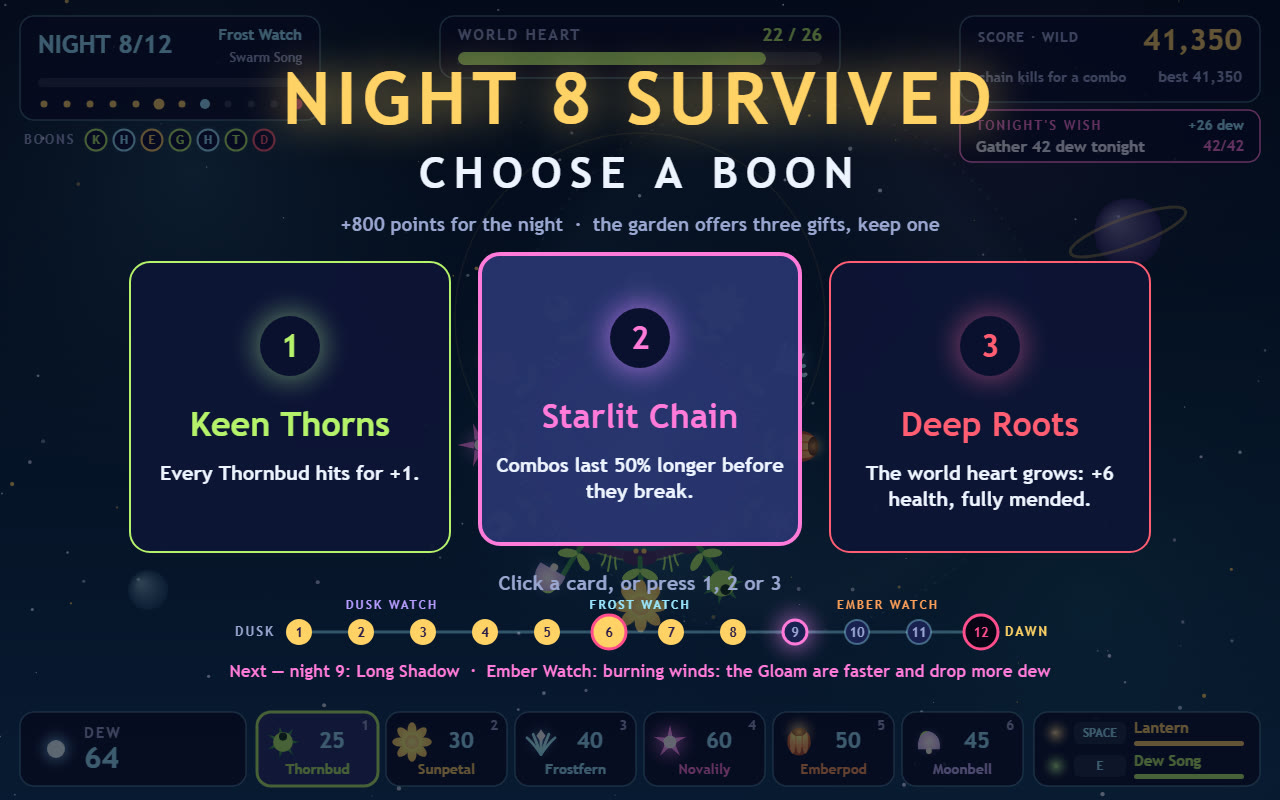
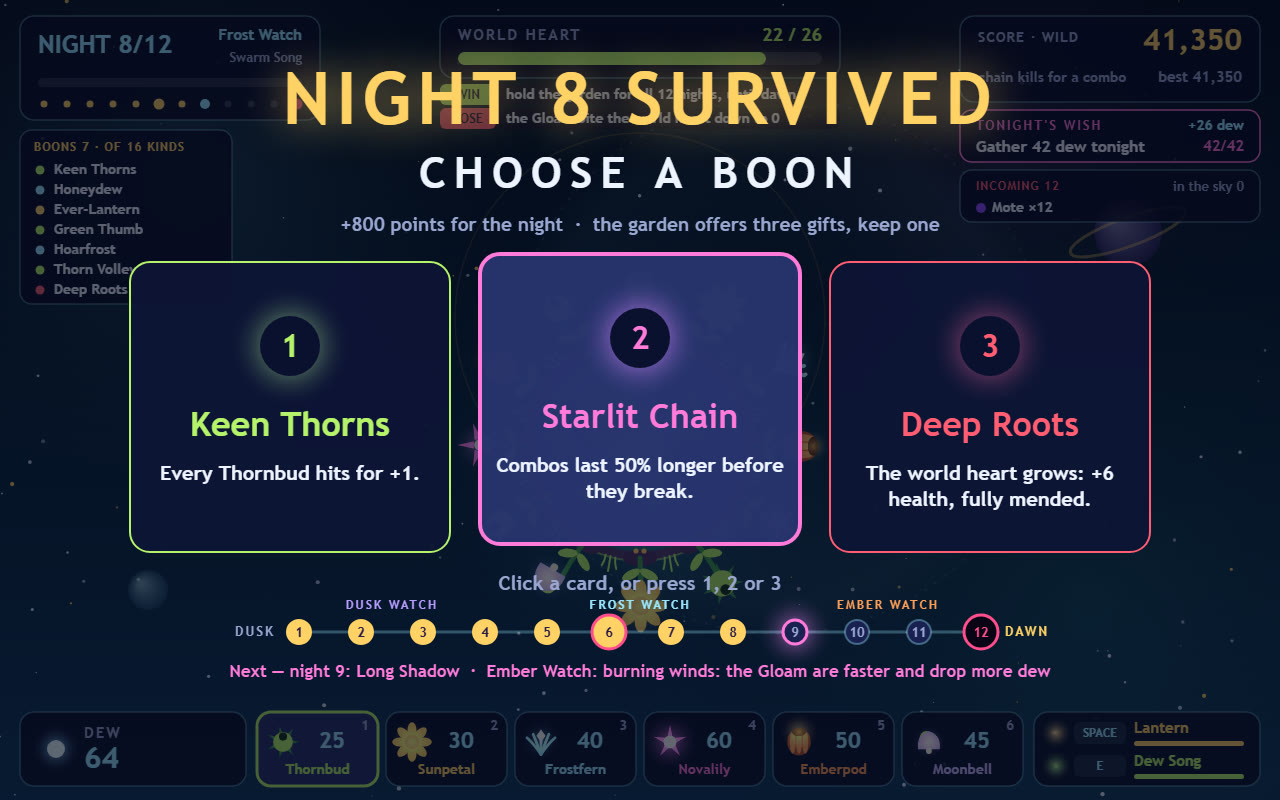
HUD: win and lose rows, boons by name, incoming Gloam by breed, keycap legend, combo call-outs

diff --git a/game/src/render/hud.js b/game/src/render/hud.js
@@ -1,11 +1,11 @@
 // The heads-up display during play: night, world heart, score and combo, dew, the seed bar and the lantern.
 
-import { BOSS_NIGHTS, COLORS, NIGHTS, PLANET, SEEDS, SEED_ORDER, VIEW, watchOf } from '../config.js';
+import { BOSS_NIGHTS, COLORS, GLOAM, NIGHTS, PLANET, SEEDS, SEED_ORDER, VIEW, watchOf } from '../config.js';
 import { BOONS, boonTint } from '../boons.js';
 import { wishProgress } from '../wishes.js';
 import { SONG_COOLDOWN, pulseCooldown } from '../gardener.js';
 import { newThreat, nightName, nightProgress } from '../waves.js';
-import { bar, glowDot, panel, write } from './brush.js';
+import { FONT, bar, glowDot, panel, write } from './brush.js';
 import { drawSeedIcon } from './garden.js';
 
 const CARD = { width: 121, height: 74, gap: 8, y: 712 };
@@ -22,16 +22,16 @@ export function drawHud(ctx, game) {
   drawCoach(ctx, game);
   drawNightPanel(ctx, game);
   drawHeartPanel(ctx, game);
+  drawGoalRows(ctx, game);
   drawScorePanel(ctx, game);
   drawWishPanel(ctx, game);
+  drawIncoming(ctx, game);
   drawDewPanel(ctx, game);
   drawSeedBar(ctx, game);
   drawLanternPanel(ctx, game);
   drawBossBar(ctx, game);
   drawBanner(ctx, game);
-  if (game.mode === 'playing') {
-    write(ctx, 'A / D walk  ·  SPACE lantern  ·  E dew song  ·  click a plot to plant or grow  ·  right-click uproots  ·  P pause  ·  M mute', VIEW.width / 2, 694, { size: 14, align: 'center', color: COLORS.dim });
-  }
+  if (game.mode === 'playing') drawKeyLegend(ctx);
 }
 
 // Red chevrons at the edge of the sky show where tonight's Gloam is coming from, while more are due.
@@ -83,7 +83,7 @@ function drawNightPanel(ctx, game) {
   write(ctx, nightName(game.night), 302, 58, { size: 13, align: 'right', color: COLORS.dim });
   bar(ctx, 38, 78, 264, 9, nightProgress(game), COLORS.ice);
   drawNightPips(ctx, game);
-  drawBoonRow(ctx, game);
+  drawBoonList(ctx, game);
 }
 
 function drawHeartPanel(ctx, game) {
@@ -164,24 +164,87 @@ function drawLanternPanel(ctx, game) {
   });
 }
 
-// The boons gathered so far, as a row of little tinted badges under the night panel.
-function drawBoonRow(ctx, game) {
-  const taken = game.boons.taken;
-  if (taken.length === 0) return;
-  write(ctx, 'BOONS', 24, 140, { size: 13, weight: 800, color: COLORS.dim, spacing: 2 });
-  taken.slice(0, 11).forEach((id, index) => {
+// The boons gathered so far, by name, in a list down the left edge (a boon taken twice shows ×2).
+function drawBoonList(ctx, game) {
+  const counts = new Map();
+  for (const id of game.boons.taken) counts.set(id, (counts.get(id) ?? 0) + 1);
+  const rows = [...counts.entries()].slice(-12);
+  panel(ctx, 20, 130, 212, 34 + Math.max(1, rows.length) * 20, { radius: 12 });
+  write(ctx, `BOONS ${game.boons.taken.length} · OF ${BOONS.length} KINDS`, 34, 148, { size: 12, weight: 800, color: COLORS.gold, spacing: 1 });
+  if (rows.length === 0) write(ctx, 'survive a night to earn one', 34, 170, { size: 13, color: COLORS.dim });
+  rows.forEach(([id, count], index) => {
     const boon = BOONS.find((entry) => entry.id === id);
-    const tint = boonTint(boon);
-    const x = 96 + index * 28;
-    glowDot(ctx, x, 140, 16, tint, 0.5);
-    ctx.fillStyle = '#0b1030';
-    ctx.strokeStyle = tint;
-    ctx.lineWidth = 2;
+    const y = 170 + index * 20;
+    ctx.fillStyle = boonTint(boon);
     ctx.beginPath();
-    ctx.arc(x, 140, 10.5, 0, Math.PI * 2);
+    ctx.arc(40, y, 4.5, 0, Math.PI * 2);
     ctx.fill();
-    ctx.stroke();
-    write(ctx, boon.name[0], x, 141, { size: 12, weight: 800, align: 'center', color: tint });
+    write(ctx, count > 1 ? `${boon.name} ×${count}` : boon.name, 54, y, { size: 14, weight: 700, color: COLORS.ink });
+  });
+}
+
+// The goal, always on screen: how the run is won and how it is lost.
+function drawGoalRows(ctx, game) {
+  const rows = [
+    { tag: 'WIN', color: COLORS.leaf, text: `hold the garden for all ${NIGHTS} nights, until dawn` },
+    { tag: 'LOSE', color: COLORS.danger, text: 'the Gloam bite the world heart down to 0' },
+  ];
+  rows.forEach((row, index) => {
+    const y = 84 + index * 24;
+    panel(ctx, 440, y, 400, 21, { radius: 6, edge: null, fill: 'rgba(10, 14, 40, 0.8)' });
+    panel(ctx, 440, y, 56, 21, { radius: 6, edge: null, fill: row.color });
+    write(ctx, row.tag, 468, y + 11, { size: 13, weight: 800, align: 'center', color: '#0b1030' });
+    write(ctx, row.text, 506, y + 11, { size: 14, weight: 700, color: COLORS.ink });
+  });
+}
+
+// What is still to come tonight, breed by breed, and how many Gloam are in the sky right now.
+function drawIncoming(ctx, game) {
+  const counts = new Map();
+  for (const entry of game.wave.queue) counts.set(entry.kind, (counts.get(entry.kind) ?? 0) + 1);
+  const kinds = Object.keys(GLOAM).filter((kind) => counts.has(kind));
+  const lines = Math.max(1, Math.ceil(kinds.length / 2));
+  panel(ctx, 960, 170, 300, 32 + lines * 20, { radius: 12 });
+  write(ctx, `INCOMING ${game.wave.queue.length}`, 976, 187, { size: 12, weight: 800, color: COLORS.danger, spacing: 1 });
+  write(ctx, `in the sky ${game.enemies.length}`, 1244, 187, { size: 13, weight: 700, align: 'right', color: COLORS.dim });
+  if (kinds.length === 0) write(ctx, 'the last of them: finish the night!', 976, 208, { size: 13, color: COLORS.ink });
+  kinds.forEach((kind, index) => {
+    const breed = GLOAM[kind];
+    const x = 976 + (index % 2) * 142;
+    const y = 208 + Math.floor(index / 2) * 20;
+    ctx.fillStyle = breed.tint;
+    ctx.beginPath();
+    ctx.arc(x + 5, y, 5, 0, Math.PI * 2);
+    ctx.fill();
+    write(ctx, `${breed.name} ×${counts.get(kind)}`, x + 16, y, { size: 14, weight: 700, color: COLORS.ink });
+  });
+}
+
+const KEY_LEGEND = [
+  ['A / D', 'walk'], ['CLICK', 'plant · grow'], ['1–6', 'seed'], ['SPACE', 'lantern'], ['E', 'dew song'],
+  ['RIGHT-CLICK', 'uproot'], ['P', 'pause'], ['M', 'sound'],
+];
+
+// The controls as a row of keycaps along the bottom, above the seed bar.
+function drawKeyLegend(ctx) {
+  ctx.save();
+  ctx.font = `800 13px ${FONT}`;
+  const pad = 8;
+  const gap = 18;
+  const widths = KEY_LEGEND.map(([key, label]) => ctx.measureText(key).width + pad * 2 + 7 + ctx.measureText(label).width);
+  ctx.restore();
+  const total = widths.reduce((sum, width) => sum + width, 0) + gap * (KEY_LEGEND.length - 1);
+  let x = (VIEW.width - total) / 2;
+  panel(ctx, x - 14, 677, total + 28, 32, { radius: 10, fill: 'rgba(10, 14, 40, 0.86)', edge: null });
+  KEY_LEGEND.forEach(([key, label], index) => {
+    ctx.save();
+    ctx.font = `800 13px ${FONT}`;
+    const cap = ctx.measureText(key).width + pad * 2;
+    ctx.restore();
+    panel(ctx, x, 682, cap, 22, { radius: 6, fill: 'rgba(155, 231, 255, 0.16)', edge: 'rgba(155, 231, 255, 0.5)', line: 1 });
+    write(ctx, key, x + cap / 2, 694, { size: 13, weight: 800, align: 'center', color: COLORS.ice });
+    write(ctx, label, x + cap + 7, 694, { size: 13, weight: 800, color: COLORS.ink });
+    x += widths[index] + gap;
   });
 }
 
@@ -200,8 +263,9 @@ function drawNightPips(ctx, game) {
 function drawBossBar(ctx, game) {
   const boss = game.enemies.find((enemy) => enemy.kind === 'eclipse');
   if (!boss) return;
-  write(ctx, 'THE ECLIPSE', VIEW.width / 2, 98, { size: 16, weight: 800, align: 'center', color: COLORS.eye, spacing: 4, glow: COLORS.eye });
-  bar(ctx, 440, 110, 400, 10, boss.health / boss.maxHealth, COLORS.eye);
+  panel(ctx, 428, 134, 424, 40, { radius: 10, fill: 'rgba(10, 14, 40, 0.86)', edge: null });
+  write(ctx, `BOSS · THE ECLIPSE · ${Math.ceil((boss.health / boss.maxHealth) * 100)}%`, VIEW.width / 2, 146, { size: 15, weight: 800, align: 'center', color: COLORS.eye, spacing: 3 });
+  bar(ctx, 440, 158, 400, 10, boss.health / boss.maxHealth, COLORS.eye);
 }
 
 function drawBanner(ctx, game) {

diff --git a/game/src/enemies.js b/game/src/enemies.js
@@ -131,6 +131,8 @@ export function damageEnemy(game, enemy, amount, quiet = false) {
   game.combo += 1;
   game.comboTimer = COMBO_WINDOW * game.boons.comboWindow;
   game.stats.kills += 1;
+  // Every tenth kill in a chain is called out in big letters above the garden.
+  if (game.combo % 10 === 0) floater(game, PLANET.x, PLANET.y - PLANET.radius - 96, `COMBO ×${game.combo}!`, COLORS.nova, 44);
   addScore(game, breed.score);
   burst(game, at.x, at.y, breed.tint, breed.size > 30 ? 60 : 14, breed.size > 30 ? 320 : 150);
   ring(game, at.x, at.y, breed.size * 2.4, breed.tint, 0.4);

diff --git a/game/src/render/sparks.js b/game/src/render/sparks.js
@@ -68,6 +68,6 @@ export function drawSparks(ctx, game) {
   ctx.globalCompositeOperation = 'source-over';
   ctx.globalAlpha = 1;
   for (const f of game.floaters) {
-    write(ctx, f.text, f.x, f.y, { size: 17, align: 'center', color: f.color, weight: 700, alpha: Math.min(1, f.life / 0.4), glow: '#000' });
+    write(ctx, f.text, f.x, f.y, { size: f.size ?? 17, align: 'center', color: f.color, weight: 800, alpha: Math.min(1, f.life / 0.4), glow: f.size > 20 ? f.color : '#000' });
   }
 }

diff --git a/game/src/effects.js b/game/src/effects.js
@@ -18,8 +18,8 @@ export function ring(game, x, y, radius, color, life = 0.5) {
   game.rings.push({ x, y, radius, color, life, maxLife: life });
 }
 
-export function floater(game, x, y, text, color) {
-  game.floaters.push({ x, y, text, color, life: 1.1, maxLife: 1.1 });
+export function floater(game, x, y, text, color, size = 17) {
+  game.floaters.push({ x, y, text, color, size, life: size > 20 ? 1.6 : 1.1, maxLife: 1.1 });
 }
 
 export function updateEffects(game, dt) {

diff --git a/game/src/render/scene.js b/game/src/render/scene.js
@@ -41,7 +41,7 @@ export function drawFrame(ctx, game, pointer) {
   if (game.muted) {
     ctx.fillStyle = COLORS.dim;
     ctx.font = "600 14px 'Trebuchet MS', sans-serif";
-    ctx.textAlign = 'right';
-    ctx.fillText('sound off (M)', VIEW.width - 24, 182);
+    ctx.textAlign = 'left';
+    ctx.fillText('sound off (M)', 24, 668);
   }
 }
